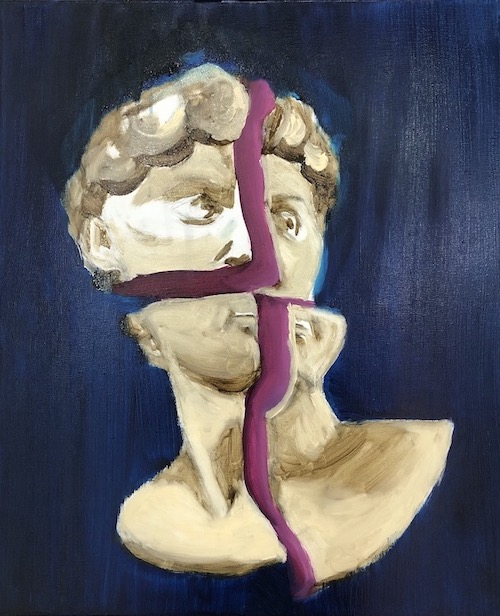
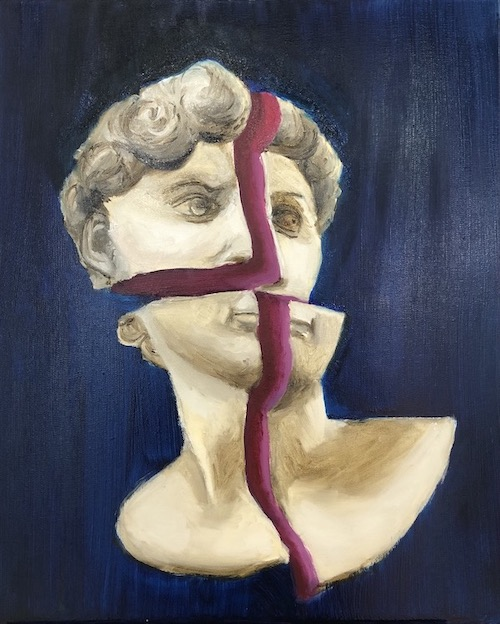
Site updated: 2022-05-21 20:38:44

diff --git a/Archive/index.html b/Archive/index.html
@@ -247,19 +247,15 @@ classes that you can use:
             
         
             
-                <span><a href="/tags/Machine-Learning/" title="Machine Learning">Machine Learning<sup>5</sup></a></span>
-            
-        
-            
                 <span><a href="/tags/Deep-Learning/" title="Deep Learning">Deep Learning<sup>5</sup></a></span>
             
         
             
-                <span><a href="/tags/Judo/" title="Judo">Judo<sup>4</sup></a></span>
+                <span><a href="/tags/Machine-Learning/" title="Machine Learning">Machine Learning<sup>5</sup></a></span>
             
         
             
-                <span><a href="/tags/Music/" title="Music">Music<sup>4</sup></a></span>
+                <span><a href="/tags/Judo/" title="Judo">Judo<sup>4</sup></a></span>
             
         
             
@@ -271,11 +267,15 @@ classes that you can use:
             
         
             
+                <span><a href="/tags/Music/" title="Music">Music<sup>4</sup></a></span>
+            
+        
+            
                 <span><a href="/tags/Blockchain/" title="Blockchain">Blockchain<sup>2</sup></a></span>
             
         
             
-                <span><a href="/tags/PM/" title="PM">PM<sup>2</sup></a></span>
+                <span><a href="/tags/Skiing/" title="Skiing">Skiing<sup>2</sup></a></span>
             
         
             
@@ -283,7 +283,7 @@ classes that you can use:
             
         
             
-                <span><a href="/tags/Skiing/" title="Skiing">Skiing<sup>2</sup></a></span>
+                <span><a href="/tags/PM/" title="PM">PM<sup>2</sup></a></span>
             
         
     </div>

diff --git a/2017/11/30/zh-人物油画1-0/zh/index.html b/2017/11/30/zh-人物油画1-0/zh/index.html
@@ -16,7 +16,7 @@
     
     
 
-    <meta name="description" content="首先是整体结构绘图：
+    <meta name="description" content="首先是整体结构绘图和背景颜色基调：
 
 
 
@@ -41,7 +41,7 @@
 <meta property="og:title" content="人物油画1.0 | H.J.T. Github">
 <meta property="og:url" content="http://yoursite.com/2017/11/30/zh-人物油画1-0/zh/index.html">
 <meta property="og:site_name" content="H.J.T. Github">
-<meta property="og:description" content="首先是整体结构绘图：
+<meta property="og:description" content="首先是整体结构绘图和背景颜色基调：
 
 
 
@@ -67,10 +67,10 @@
 <meta property="og:image" content="http://yoursite.com/image/Oils/oils_daily_1/David_3.jpeg">
 <meta property="og:image" content="http://yoursite.com/image/Oils/oils_daily_1/David_4.jpeg">
 <meta property="og:image" content="http://yoursite.com/image/Oils/oils_daily_1/David_5.jpeg">
-<meta property="og:updated_time" content="2022-05-15T17:05:21.802Z">
+<meta property="og:updated_time" content="2022-05-21T11:09:01.848Z">
 <meta name="twitter:card" content="summary">
 <meta name="twitter:title" content="人物油画1.0 | H.J.T. Github">
-<meta name="twitter:description" content="首先是整体结构绘图：
+<meta name="twitter:description" content="首先是整体结构绘图和背景颜色基调：
 
 
 
@@ -310,7 +310,7 @@ classes that you can use:
   </header>
 
   <section id="post-content" class="article-content post">
-    <p>首先是整体结构绘图：</p>
+    <p>首先是整体结构绘图和背景颜色基调：</p>
 <center><img src="/image/Oils/oils_daily_1/David_1.jpeg" alt="Masami"></center>
 
 <hr>

diff --git a/2017/11/30/zh-日常油画1-0/zh/index.html b/2017/11/30/zh-日常油画1-0/zh/index.html
@@ -16,7 +16,7 @@
     
     
 
-    <meta name="description" content="首先是整体结构绘图：
+    <meta name="description" content="首先是整体结构绘图和背景颜色基调：
 
 
 
@@ -41,7 +41,7 @@
 <meta property="og:title" content="日常油画1.0 | H.J.T. Github">
 <meta property="og:url" content="http://yoursite.com/2017/11/30/zh-日常油画1-0/zh/index.html">
 <meta property="og:site_name" content="H.J.T. Github">
-<meta property="og:description" content="首先是整体结构绘图：
+<meta property="og:description" content="首先是整体结构绘图和背景颜色基调：
 
 
 
@@ -67,10 +67,10 @@
 <meta property="og:image" content="http://yoursite.com/image/Oils/oils_daily_1/David_3.jpeg">
 <meta property="og:image" content="http://yoursite.com/image/Oils/oils_daily_1/David_4.jpeg">
 <meta property="og:image" content="http://yoursite.com/image/Oils/oils_daily_1/David_5.jpeg">
-<meta property="og:updated_time" content="2022-05-15T17:05:23.328Z">
+<meta property="og:updated_time" content="2022-05-21T11:09:04.931Z">
 <meta name="twitter:card" content="summary">
 <meta name="twitter:title" content="日常油画1.0 | H.J.T. Github">
-<meta name="twitter:description" content="首先是整体结构绘图：
+<meta name="twitter:description" content="首先是整体结构绘图和背景颜色基调：
 
 
 
@@ -310,7 +310,7 @@ classes that you can use:
   </header>
 
   <section id="post-content" class="article-content post">
-    <p>首先是整体结构绘图：</p>
+    <p>首先是整体结构绘图和背景颜色基调：</p>
 <center><img src="/image/Oils/oils_daily_1/David_1.jpeg" alt="David"></center>
 
 <hr>

diff --git a/archives/2017/01/index.html b/archives/2017/01/index.html
@@ -240,7 +240,7 @@ classes that you can use:
     <li>
 
       <h2 class="post-list__post-title post-title">
-        <a href="/2017/01/01/zh-The-Chords-of-Guitar-和弦指法图/zh/" title="link to The Chords of Guitar-和弦指法图">The Chords of Guitar-和弦指法图</a>
+        <a href="/2017/01/01/zh-Twelvetone-十二平均律/zh/" title="link to Twelvetone-十二平均律.md">Twelvetone-十二平均律.md</a>
       </h2>
 
       <div class="post-list__meta">
@@ -258,7 +258,7 @@ classes that you can use:
     <li>
 
       <h2 class="post-list__post-title post-title">
-        <a href="/2017/01/01/zh-Twelvetone-十二平均律/zh/" title="link to Twelvetone-十二平均律.md">Twelvetone-十二平均律.md</a>
+        <a href="/2017/01/01/zh-The-Chords-of-Guitar-和弦指法图/zh/" title="link to The Chords of Guitar-和弦指法图">The Chords of Guitar-和弦指法图</a>
       </h2>
 
       <div class="post-list__meta">

diff --git a/archives/2017/page/3/index.html b/archives/2017/page/3/index.html
@@ -312,7 +312,7 @@ classes that you can use:
     <li>
 
       <h2 class="post-list__post-title post-title">
-        <a href="/2017/01/01/zh-The-Chords-of-Guitar-和弦指法图/zh/" title="link to The Chords of Guitar-和弦指法图">The Chords of Guitar-和弦指法图</a>
+        <a href="/2017/01/01/zh-Twelvetone-十二平均律/zh/" title="link to Twelvetone-十二平均律.md">Twelvetone-十二平均律.md</a>
       </h2>
 
       <div class="post-list__meta">
@@ -330,7 +330,7 @@ classes that you can use:
     <li>
 
       <h2 class="post-list__post-title post-title">
-        <a href="/2017/01/01/zh-Twelvetone-十二平均律/zh/" title="link to Twelvetone-十二平均律.md">Twelvetone-十二平均律.md</a>
+        <a href="/2017/01/01/zh-The-Chords-of-Guitar-和弦指法图/zh/" title="link to The Chords of Guitar-和弦指法图">The Chords of Guitar-和弦指法图</a>
       </h2>
 
       <div class="post-list__meta">

diff --git a/archives/page/5/index.html b/archives/page/5/index.html
@@ -275,7 +275,7 @@ classes that you can use:
     <li>
 
       <h2 class="post-list__post-title post-title">
-        <a href="/2017/01/01/zh-The-Chords-of-Guitar-和弦指法图/zh/" title="link to The Chords of Guitar-和弦指法图">The Chords of Guitar-和弦指法图</a>
+        <a href="/2017/01/01/zh-Twelvetone-十二平均律/zh/" title="link to Twelvetone-十二平均律.md">Twelvetone-十二平均律.md</a>
       </h2>
 
       <div class="post-list__meta">
@@ -293,7 +293,7 @@ classes that you can use:
     <li>
 
       <h2 class="post-list__post-title post-title">
-        <a href="/2017/01/01/zh-Twelvetone-十二平均律/zh/" title="link to Twelvetone-十二平均律.md">Twelvetone-十二平均律.md</a>
+        <a href="/2017/01/01/zh-The-Chords-of-Guitar-和弦指法图/zh/" title="link to The Chords of Guitar-和弦指法图">The Chords of Guitar-和弦指法图</a>
       </h2>
 
       <div class="post-list__meta">

diff --git a/page/5/index.html b/page/5/index.html
@@ -275,7 +275,7 @@ classes that you can use:
     <li>
 
       <h2 class="post-list__post-title post-title">
-        <a href="/2017/01/01/zh-The-Chords-of-Guitar-和弦指法图/zh/" title="link to The Chords of Guitar-和弦指法图">The Chords of Guitar-和弦指法图</a>
+        <a href="/2017/01/01/zh-Twelvetone-十二平均律/zh/" title="link to Twelvetone-十二平均律.md">Twelvetone-十二平均律.md</a>
       </h2>
 
       <div class="post-list__meta">
@@ -293,7 +293,7 @@ classes that you can use:
     <li>
 
       <h2 class="post-list__post-title post-title">
-        <a href="/2017/01/01/zh-Twelvetone-十二平均律/zh/" title="link to Twelvetone-十二平均律.md">Twelvetone-十二平均律.md</a>
+        <a href="/2017/01/01/zh-The-Chords-of-Guitar-和弦指法图/zh/" title="link to The Chords of Guitar-和弦指法图">The Chords of Guitar-和弦指法图</a>
       </h2>
 
       <div class="post-list__meta">
